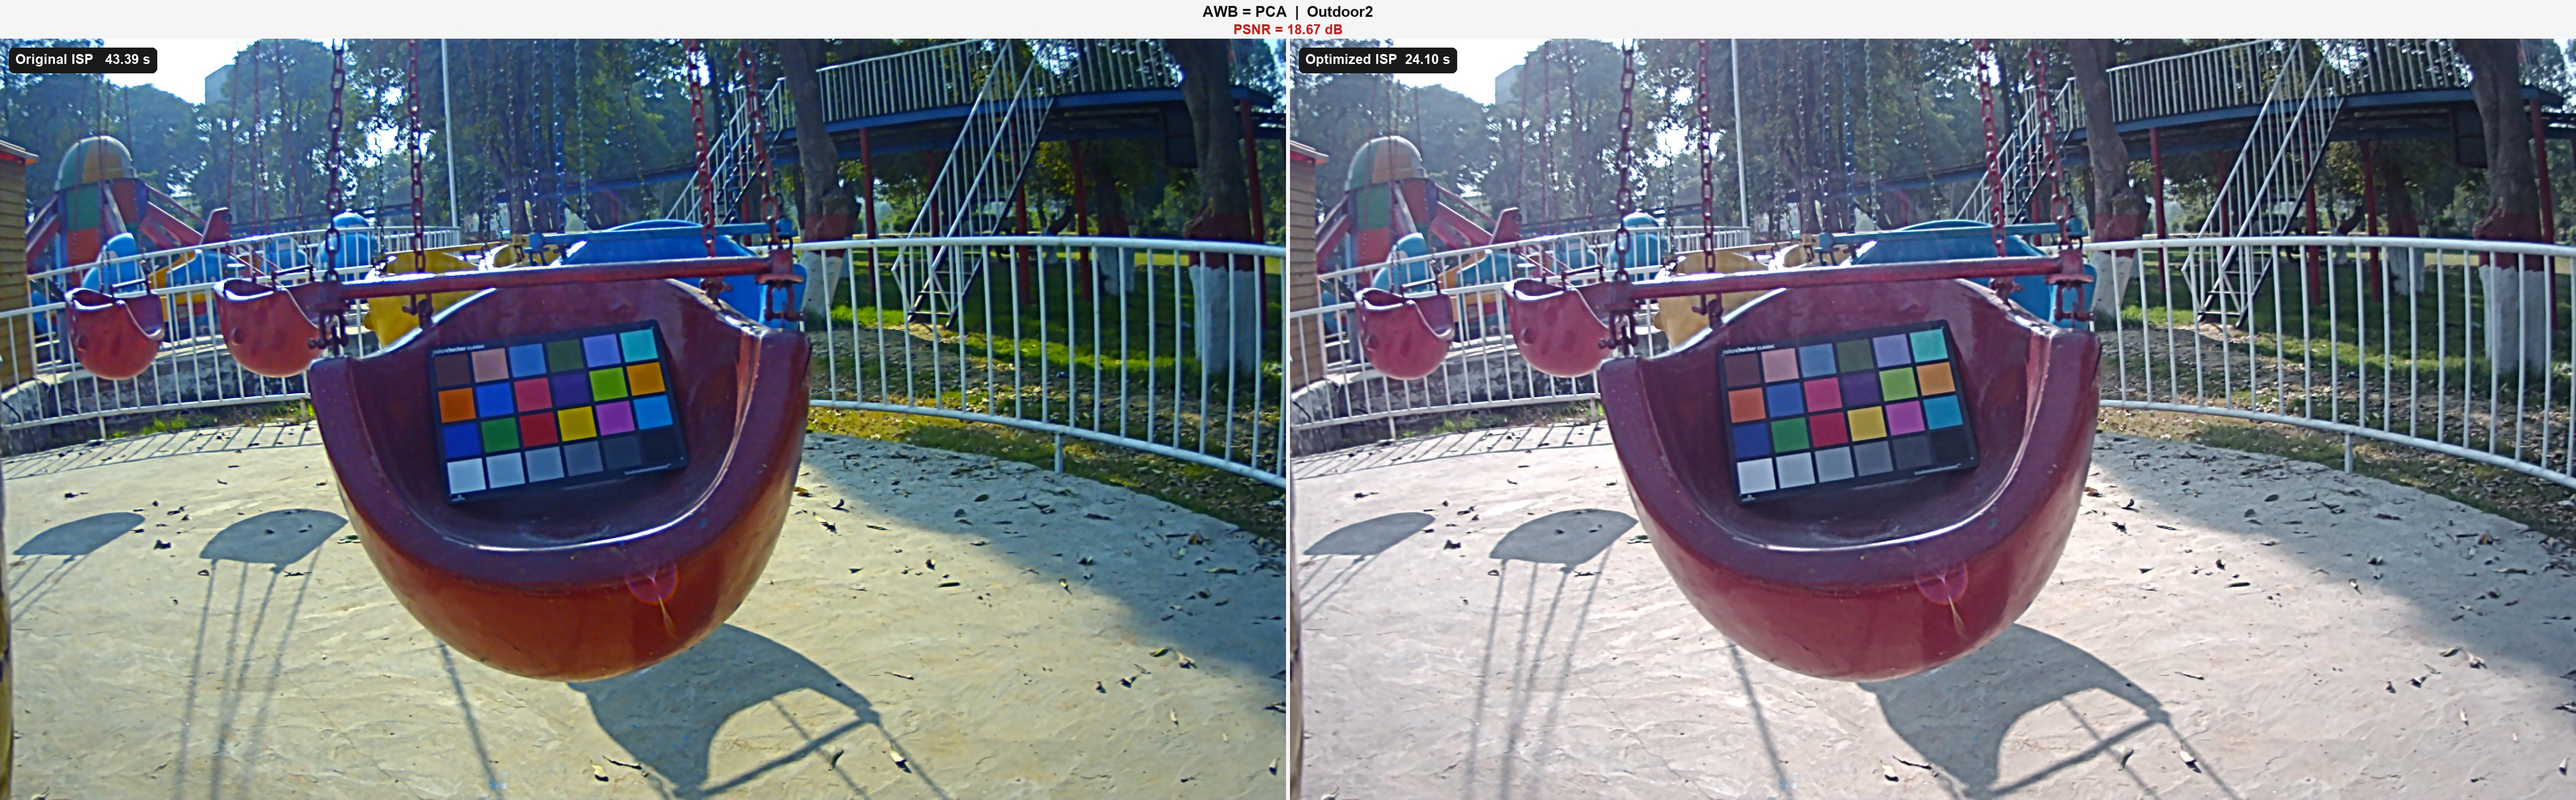
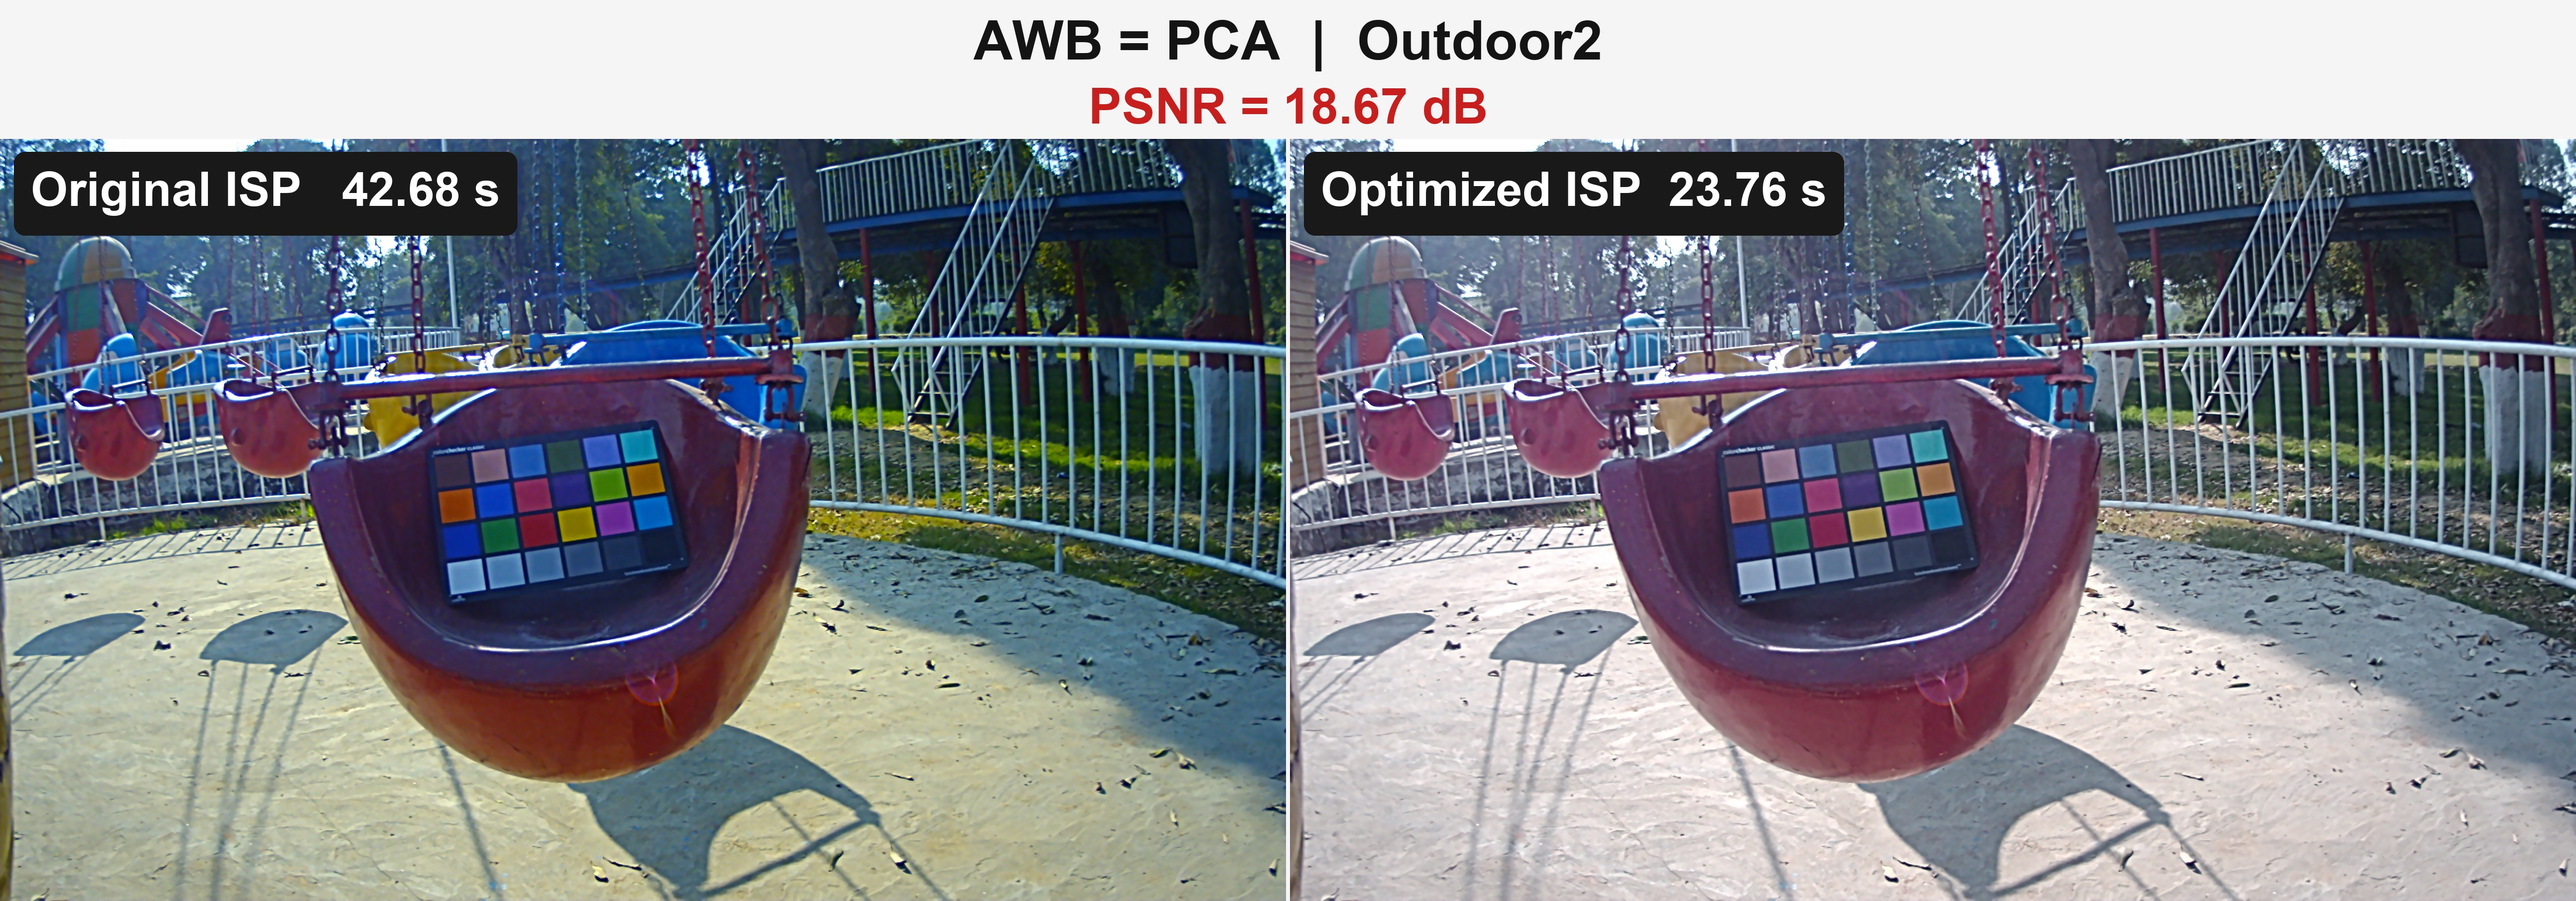
Make result images readable inline; CSE matrices now show per-panel ΔE
- Comparison images re-rendered with 3.5-4x larger annotations (title,
  PSNR, time badges) so they are legible when GitHub renders them inline
  (previously the ~27px text collapsed to ~4px at container width)
- make_cse_cross_test.py now computes a rendering-domain ΔE per panel
  (ColorChecker grid located once per scene, all 24 patches sampled on the
  same anchor; X-Rite reference inlined, self-contained) and draws a red
  ΔE badge on each panel top-right
- README: add disclaimer (learning work; errors/infringement welcome to be
  pointed out)
- results/README.md + scripts/README.md updated to document the ΔE badges
  and the honest Indoor1 caveat (dim card -> lighting-dominated ΔE)

diff --git a/scripts/make_cse_cross_test.py b/scripts/make_cse_cross_test.py
@@ -23,6 +23,41 @@ FONT = r"C:\Windows\Fonts\arialbd.ttf"
 if not os.path.exists(FONT):
     FONT = r"C:\Windows\Fonts\msyhbd.ttc"
 
+# X-Rite ColorChecker Classic 24 参考 sRGB（脚本自包含，与 detect_colorchecker 同表）
+X_RITE = np.array([
+    [115, 82, 68], [194, 150, 130], [98, 122, 157], [87, 108, 67],
+    [133, 128, 177], [103, 189, 170], [214, 126, 44], [80, 91, 166],
+    [193, 90, 99], [94, 60, 108], [157, 188, 26], [224, 163, 46],
+    [56, 61, 150], [70, 148, 73], [175, 54, 60], [231, 199, 31],
+    [187, 86, 149], [8, 133, 161], [243, 243, 242], [200, 200, 200],
+    [160, 160, 160], [122, 122, 121], [85, 85, 85], [52, 52, 52],
+], dtype=float)
+DXDY = (218, 207)  # 模板扫描网格间隔 (validate_ccm_raw 标定)
+
+def grid_de(img, ax, ay, dx=DXDY[0], dy=DXDY[1], half=28):
+    """在渲染图 img 上以 (ax,ay) 为锚点采样 24 块，返回 (平均 ΔE, 逐块 ΔE)。"""
+    de = np.zeros(24)
+    for r in range(4):
+        for c in range(6):
+            cx, cy = ax + c * dx, ay + r * dy
+            y1, y2 = max(0, int(cy) - half), min(img.shape[0], int(cy) + half)
+            x1, x2 = max(0, int(cx) - half), min(img.shape[1], int(cx) + half)
+            if y2 <= y1 or x2 <= x1:
+                return 1e9, None
+            obs = img[y1:y2, x1:x2].mean(axis=(0, 1))
+            de[r * 6 + c] = np.linalg.norm(obs - X_RITE[r * 6 + c])
+    return de.mean(), de
+
+def find_grid(img, dx=DXDY[0], dy=DXDY[1]):
+    """模板扫描定位 4x6 ColorChecker 网格，返回 (最小平均ΔE, 锚点)。"""
+    best = (1e9, None)
+    for ay in range(150, 1200, 30):
+        for ax in range(200, 1900, 30):
+            score, _ = grid_de(img, ax, ay, dx, dy)
+            if score < best[0]:
+                best = (score, (ax, ay))
+    return best
+
 SCENES = [
     ("ColorChecker", "ColorChecker_2592x1536_12bits_RGGB.raw", "./in_frames/normal",
      "Out_ColorChecker_2592x1536_12bits_RGGB",
@@ -93,16 +128,16 @@ def baseline_path(tag, name):
         raise RuntimeError("baseline missing: %s" % p)
     return p
 
-def draw_badge(dr, x, y, text, font, pad_h=13, pad_v=8):
+def draw_badge(dr, x, y, text, font, pad_h=30, pad_v=20, fill=(25, 25, 25)):
     lw = dr.textlength(text, font=font)
     dr.rounded_rectangle([x, y, x + lw + pad_h * 2, y + int(font.size * 1.3) + pad_v * 2],
-                         radius=10, fill=(25, 25, 25))
+                         radius=20, fill=fill)
     dr.text((x + pad_h, y + pad_v), text, fill=(255, 255, 255), font=font)
 
 def make_matrix(name, panels, out_path):
     """panels: [(img, label), ...] 顺序 TL, TR, BL, BR"""
     h, w = panels[0][0].shape[:2]
-    gap, band = 8, 78
+    gap, band = 8, 280
     cw = w * 2 + gap
     ch = band + h * 2 + gap
     canvas = np.full((ch, cw, 3), 245, dtype=np.uint8)
@@ -111,18 +146,30 @@ def make_matrix(name, panels, out_path):
         canvas[py:py + h, px:px + w] = panel
     img = Image.fromarray(cv2.cvtColor(canvas, cv2.COLOR_BGR2RGB))
     dr = ImageDraw.Draw(img)
-    f_title = ImageFont.truetype(FONT, 27)
-    f_sub = ImageFont.truetype(FONT, 19)
-    f_badge = ImageFont.truetype(FONT, 24)
+    f_title = ImageFont.truetype(FONT, 100)
+    f_sub = ImageFont.truetype(FONT, 68)
+    f_badge = ImageFont.truetype(FONT, 88)
     title = "AWB = PCA  |  %s  |  CCM x CSE saturation" % name
     tw = dr.textlength(title, font=f_title)
-    dr.text(((cw - tw) / 2, 8), title, fill=(20, 20, 20), font=f_title)
+    dr.text(((cw - tw) / 2, 20), title, fill=(20, 20, 20), font=f_title)
     # 列头：saturation 1.5 | 1.0（行信息由每个面板的徽标承载）
     for cx, t in ((w / 2, "CSE sat 1.5"), (w + gap + w / 2, "CSE sat 1.0")):
         wt = dr.textlength(t, font=f_sub)
-        dr.text((cx - wt / 2, 44), t, fill=(90, 90, 90), font=f_sub)
+        dr.text((cx - wt / 2, 168), t, fill=(90, 90, 90), font=f_sub)
+    # 渲染域 ΔE：在 TL 面板上定位 ColorChecker 网格，其余面板同锚点采样（每面板一个 ΔE）
+    tl_rgb = cv2.cvtColor(panels[0][0], cv2.COLOR_BGR2RGB)
+    _, anchor = find_grid(tl_rgb)
+    des = [grid_de(cv2.cvtColor(p, cv2.COLOR_BGR2RGB), anchor[0], anchor[1])[0]
+           for p, _ in panels] if anchor else []
+    if des:
+        print("    锚点=%s  面板 ΔE = %s" % (anchor, [round(x, 1) for x in des]))
     for (panel, label), (px, py) in zip(panels, pos):
-        draw_badge(dr, px + 14, py + 14, label, f_badge, pad_h=11, pad_v=6)
+        draw_badge(dr, px + 28, py + 28, label, f_badge, pad_h=26, pad_v=18)
+    for (panel, label), (px, py), de in zip(panels, pos, des):
+        de_txt = "ΔE mean %4.1f" % de
+        dw = dr.textlength(de_txt, font=f_badge)
+        draw_badge(dr, px + w - 28 - dw - 2 * 26, py + 28, de_txt, f_badge,
+                   pad_h=26, pad_v=18, fill=(180, 30, 30))
     img.save(out_path)
     print("  保存矩阵图:", out_path)
 

diff --git a/scripts/make_ab_render3a_pca.py b/scripts/make_ab_render3a_pca.py
@@ -83,32 +83,32 @@ def psnr(a, b):
     mse = np.mean((a - b) ** 2)
     return float("inf") if mse == 0 else 10 * np.log10(255.0 ** 2 / mse)
 
-def draw_badge(dr, x, y, text, font, pad_h=13, pad_v=8):
+def draw_badge(dr, x, y, text, font, pad_h=34, pad_v=22):
     lw = dr.textlength(text, font=font)
     dr.rounded_rectangle([x, y, x + lw + pad_h * 2, y + int(font.size * 1.3) + pad_v * 2],
-                         radius=10, fill=(25, 25, 25))
+                         radius=22, fill=(25, 25, 25))
     dr.text((x + pad_h, y + pad_v), text, fill=(255, 255, 255), font=font)
 
 def make_cmp(name, left, right, tE, tD, psnr_v, out_path):
     """左=原ISP(E)，右=优化ISP(D)；顶栏标题+居中PSNR；两图左上角各标处理时间。"""
     h, w = left.shape[:2]
-    band, gap = 78, 8
+    band, gap = 280, 8
     canvas = np.full((band + h, w * 2 + gap, 3), 245, dtype=np.uint8)
     canvas[band:, :w] = left
     canvas[band:, w + gap:] = right
     img = Image.fromarray(cv2.cvtColor(canvas, cv2.COLOR_BGR2RGB))
     dr = ImageDraw.Draw(img)
-    f_title = ImageFont.truetype(FONT, 30)
-    f_psnr = ImageFont.truetype(FONT, 27)
-    f_badge = ImageFont.truetype(FONT, 27)
+    f_title = ImageFont.truetype(FONT, 110)
+    f_psnr = ImageFont.truetype(FONT, 100)
+    f_badge = ImageFont.truetype(FONT, 96)
     title = "AWB = PCA  |  %s" % name
     tw = dr.textlength(title, font=f_title)
-    dr.text(((w * 2 + gap - tw) / 2, 6), title, fill=(20, 20, 20), font=f_title)
+    dr.text(((w * 2 + gap - tw) / 2, 20), title, fill=(20, 20, 20), font=f_title)
     ptxt = "PSNR = ∞" if psnr_v == float("inf") else "PSNR = %.2f dB" % psnr_v
     pw = dr.textlength(ptxt, font=f_psnr)
-    dr.text(((w * 2 + gap - pw) / 2, 44), ptxt, fill=(200, 30, 30), font=f_psnr)
-    draw_badge(dr, 18, band + 18, "Original ISP   %.2f s" % tE, f_badge)
-    draw_badge(dr, w + gap + 18, band + 18, "Optimized ISP  %.2f s" % tD, f_badge)
+    dr.text(((w * 2 + gap - pw) / 2, 158), ptxt, fill=(200, 30, 30), font=f_psnr)
+    draw_badge(dr, 28, band + 26, "Original ISP   %.2f s" % tE, f_badge)
+    draw_badge(dr, w + gap + 28, band + 26, "Optimized ISP  %.2f s" % tD, f_badge)
     img.save(out_path)
     print("  保存对比图:", out_path)
 

diff --git a/results/README.md b/results/README.md
@@ -6,7 +6,7 @@ running each pipeline independently on the same RAW (2592×1536, 12-bit RGGB).
 | Folder | Contents | What to look for |
 |---|---|---|
 | `ab_compare/` | `ColorChecker/Indoor1/Outdoor1-4` — original-vs-optimized side-by-side | Top-center PSNR; the optimized output has correct colors (no magenta reds, no clipped pure-color regions) |
-| `ccm_x_cse_ablation/` | 2×2 ablation matrices: CCM (original/optimized) × CSE saturation (1.5/1.0) | The optimized CCM is better at every saturation setting; the original CCM at sat 1.0 still oversaturates |
+| `ccm_x_cse_ablation/` | 2×2 ablation matrices: CCM (original/optimized) × CSE saturation (1.5/1.0), each panel tagged with rendering-domain ΔE (mean over 24 ColorChecker patches, same grid anchor) | On the well-lit ColorChecker scene the optimized CCM has lower ΔE at every saturation (57→25 at sat 1.0) and oversaturates less; on Indoor1 the card is dimly lit so ΔE is lighting-dominated |
 
 ## A/B configuration
 

diff --git a/README.md b/README.md
@@ -16,6 +16,11 @@ The two directions are independent: **A is lossless** (bit-identical, verifiable
 > exact baseline, the list of modified files, and the attribution/licensing notes.
 > Upstream copyright: `Infinite-ISP, Copyright 2024, 10xEngineers` (see [NOTICE](NOTICE)).
 
+> **Disclaimer / 声明** — This project is the author's learning work on ISP
+> (image signal processing). If there are any errors, or any infringement of
+> existing work, it is unintentional — please point them out and it will be
+> corrected. 本项目为作者为学习ISP（图像信号处理）的产物，如有错误或侵权，敬请指正！
+
 ---
 
 ## A. Denoise acceleration — 2.2× with bit-identical output

diff --git a/scripts/README.md b/scripts/README.md
@@ -11,7 +11,7 @@ with the patches + CCM config applied) before running.
 | Script | Produces |
 |---|---|
 | `make_ab_render3a_pca.py` | `results/ab_compare/*` — A/B comparison for the 6 built-in scenes (ColorChecker, Indoor1, Outdoor1–4) |
-| `make_cse_cross_test.py` | `results/ccm_x_cse_ablation/*` — 2×2 ablation: CCM (original/optimized) × CSE saturation (1.5/1.0) |
+| `make_cse_cross_test.py` | `results/ccm_x_cse_ablation/*` — 2×2 ablation: CCM (original/optimized) × CSE saturation (1.5/1.0), each panel tagged with rendering-domain ΔE (locates the ColorChecker grid on the top-left panel, samples all 24 patches on the same anchor) |
 
 ## Method / verification scripts
 
